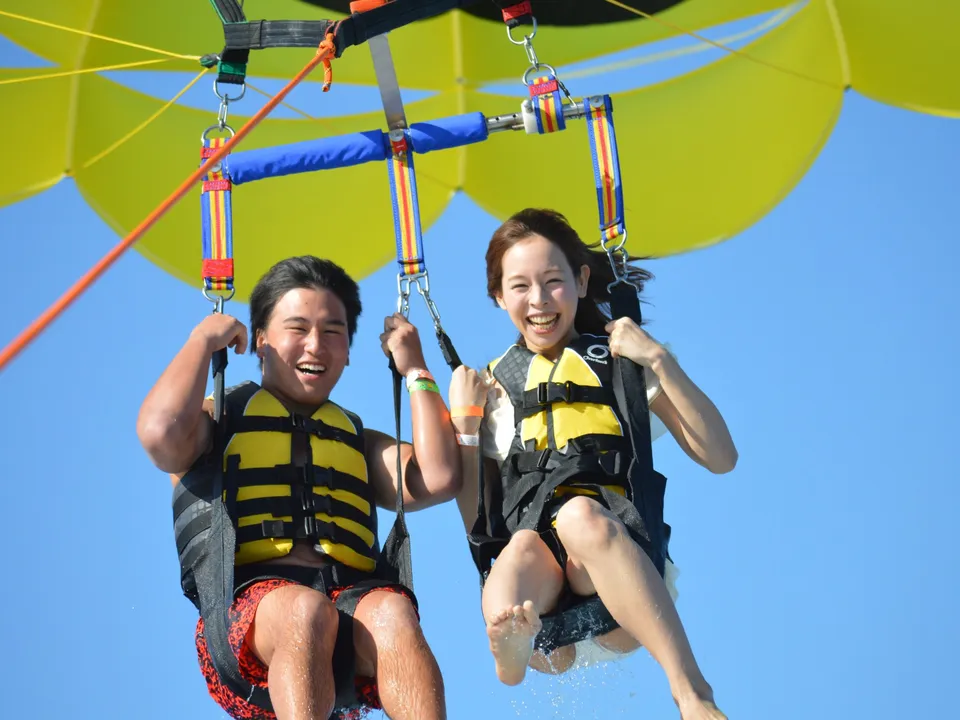
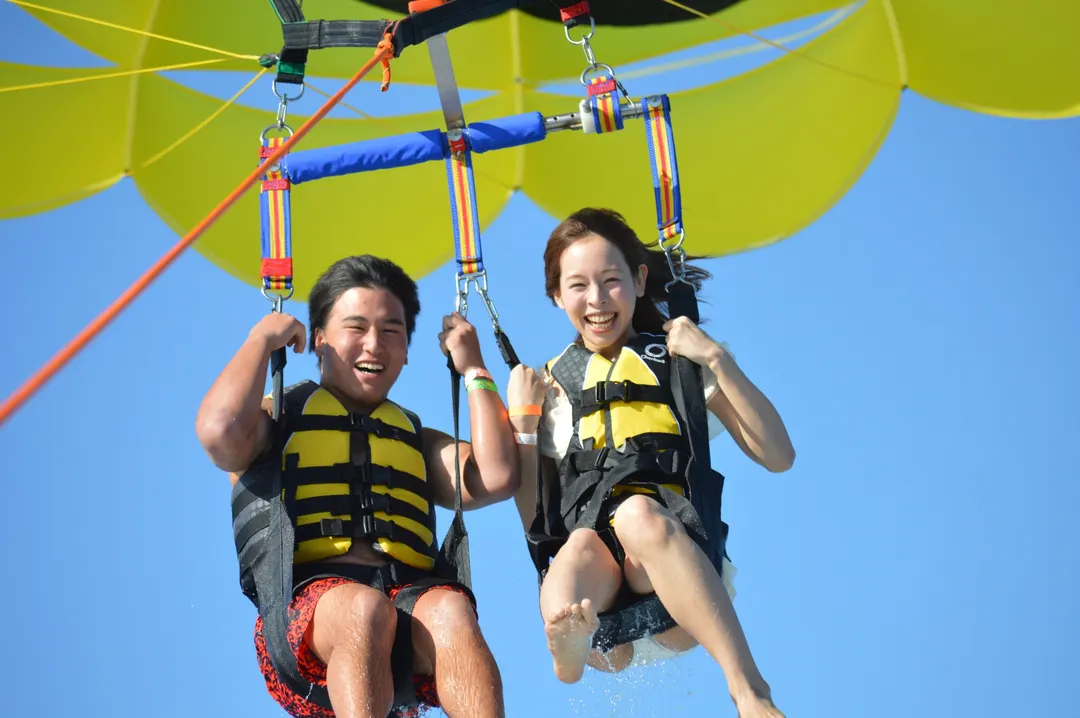
Combo desktop: crop para/jet photos less
Photo column is wider (1.2fr) and the spec table folds into two columns so
the card is shorter; the photo box goes from ~1:1 to 1.1-1.2:1 and uses the
uncropped originals.

Claude-Session: https://claude.ai/code/session_013pcx89j3zvmSQ7DeVKpmNj

diff --git a/docs/design-canvas/v3/DetailComboKo.dc.html b/docs/design-canvas/v3/DetailComboKo.dc.html
@@ -144,22 +144,26 @@ h1,h2,h3,h4{font-family:'SUIT',system-ui,sans-serif;color:var(--ink);letter-spac
 
 /* 콤보 — 패러세일링 · 제트스키. 사진 반, 글 반. 두 판은 사진 쪽을 바꿔 리듬을 준다. */
 .acts{margin-top:44px;display:grid;gap:28px}
-.act{display:grid;grid-template-columns:1fr 1fr;background:#fff;border:1px solid var(--line);
+/* 사진 칸을 넓히고 사양 표를 두 단으로 접어 카드 높이를 줄였다. 둘 다 1:1 에
+   가깝던 사진 칸을 4:3 가까이 되돌려, 사진 좌우가 덜 잘린다. */
+.act{display:grid;grid-template-columns:1.2fr 1fr;background:#fff;border:1px solid var(--line);
   border-radius:22px;overflow:hidden}
+.act.rev{grid-template-columns:1fr 1.2fr}
 .act-ph{position:relative;min-height:420px}
 .act-ph img{position:absolute;inset:0;width:100%;height:100%;object-fit:cover}
 .act.rev .act-ph{order:2}
-.act-b{padding:44px 48px 40px}
+.act-b{padding:40px 44px 36px}
 .act-tag{display:inline-flex;align-items:center;height:30px;padding:0 13px;border-radius:999px;
   background:var(--soft);color:var(--deep);font-size:14px;font-weight:800}
 .act-b h3{margin-top:16px;font-size:34px;line-height:1.25}
 .act-k{margin-top:8px;font-size:17px;font-weight:700;color:var(--sea-d)}
 .act-t p{margin-top:14px;font-size:16px;line-height:1.8;color:var(--text)}
-.act-spec{margin-top:26px;border-top:1px solid var(--line)}
-.act-spec div{display:grid;grid-template-columns:76px 1fr;gap:14px;padding:12px 0;
+.act-spec{margin-top:24px;display:grid;grid-template-columns:1fr 1fr;column-gap:26px}
+.act-spec div{display:grid;grid-template-columns:52px 1fr;gap:10px;padding:11px 0;
   border-bottom:1px solid var(--line)}
+.act-spec div:nth-child(-n+2){border-top:1px solid var(--line)}
 .act-spec dt{font-size:14.5px;font-weight:700;color:var(--muted)}
-.act-spec dd{font-size:15.5px;font-weight:600;line-height:1.6;color:var(--ink)}
+.act-spec dd{font-size:15px;font-weight:600;line-height:1.6;color:var(--ink)}
 .acts + .tnote{margin-top:22px}
 
 /* 콤보 — 패키지 A · B. */

diff --git a/docs/design-canvas/v3/DetailKo.dc.html b/docs/design-canvas/v3/DetailKo.dc.html
@@ -144,22 +144,26 @@ h1,h2,h3,h4{font-family:'SUIT',system-ui,sans-serif;color:var(--ink);letter-spac
 
 /* 콤보 — 패러세일링 · 제트스키. 사진 반, 글 반. 두 판은 사진 쪽을 바꿔 리듬을 준다. */
 .acts{margin-top:44px;display:grid;gap:28px}
-.act{display:grid;grid-template-columns:1fr 1fr;background:#fff;border:1px solid var(--line);
+/* 사진 칸을 넓히고 사양 표를 두 단으로 접어 카드 높이를 줄였다. 둘 다 1:1 에
+   가깝던 사진 칸을 4:3 가까이 되돌려, 사진 좌우가 덜 잘린다. */
+.act{display:grid;grid-template-columns:1.2fr 1fr;background:#fff;border:1px solid var(--line);
   border-radius:22px;overflow:hidden}
+.act.rev{grid-template-columns:1fr 1.2fr}
 .act-ph{position:relative;min-height:420px}
 .act-ph img{position:absolute;inset:0;width:100%;height:100%;object-fit:cover}
 .act.rev .act-ph{order:2}
-.act-b{padding:44px 48px 40px}
+.act-b{padding:40px 44px 36px}
 .act-tag{display:inline-flex;align-items:center;height:30px;padding:0 13px;border-radius:999px;
   background:var(--soft);color:var(--deep);font-size:14px;font-weight:800}
 .act-b h3{margin-top:16px;font-size:34px;line-height:1.25}
 .act-k{margin-top:8px;font-size:17px;font-weight:700;color:var(--sea-d)}
 .act-t p{margin-top:14px;font-size:16px;line-height:1.8;color:var(--text)}
-.act-spec{margin-top:26px;border-top:1px solid var(--line)}
-.act-spec div{display:grid;grid-template-columns:76px 1fr;gap:14px;padding:12px 0;
+.act-spec{margin-top:24px;display:grid;grid-template-columns:1fr 1fr;column-gap:26px}
+.act-spec div{display:grid;grid-template-columns:52px 1fr;gap:10px;padding:11px 0;
   border-bottom:1px solid var(--line)}
+.act-spec div:nth-child(-n+2){border-top:1px solid var(--line)}
 .act-spec dt{font-size:14.5px;font-weight:700;color:var(--muted)}
-.act-spec dd{font-size:15.5px;font-weight:600;line-height:1.6;color:var(--ink)}
+.act-spec dd{font-size:15px;font-weight:600;line-height:1.6;color:var(--ink)}
 .acts + .tnote{margin-top:22px}
 
 /* 콤보 — 패키지 A · B. */

diff --git a/docs/design-canvas/v3/DetailSunsetKo.dc.html b/docs/design-canvas/v3/DetailSunsetKo.dc.html
@@ -144,22 +144,26 @@ h1,h2,h3,h4{font-family:'SUIT',system-ui,sans-serif;color:var(--ink);letter-spac
 
 /* 콤보 — 패러세일링 · 제트스키. 사진 반, 글 반. 두 판은 사진 쪽을 바꿔 리듬을 준다. */
 .acts{margin-top:44px;display:grid;gap:28px}
-.act{display:grid;grid-template-columns:1fr 1fr;background:#fff;border:1px solid var(--line);
+/* 사진 칸을 넓히고 사양 표를 두 단으로 접어 카드 높이를 줄였다. 둘 다 1:1 에
+   가깝던 사진 칸을 4:3 가까이 되돌려, 사진 좌우가 덜 잘린다. */
+.act{display:grid;grid-template-columns:1.2fr 1fr;background:#fff;border:1px solid var(--line);
   border-radius:22px;overflow:hidden}
+.act.rev{grid-template-columns:1fr 1.2fr}
 .act-ph{position:relative;min-height:420px}
 .act-ph img{position:absolute;inset:0;width:100%;height:100%;object-fit:cover}
 .act.rev .act-ph{order:2}
-.act-b{padding:44px 48px 40px}
+.act-b{padding:40px 44px 36px}
 .act-tag{display:inline-flex;align-items:center;height:30px;padding:0 13px;border-radius:999px;
   background:var(--soft);color:var(--deep);font-size:14px;font-weight:800}
 .act-b h3{margin-top:16px;font-size:34px;line-height:1.25}
 .act-k{margin-top:8px;font-size:17px;font-weight:700;color:var(--sea-d)}
 .act-t p{margin-top:14px;font-size:16px;line-height:1.8;color:var(--text)}
-.act-spec{margin-top:26px;border-top:1px solid var(--line)}
-.act-spec div{display:grid;grid-template-columns:76px 1fr;gap:14px;padding:12px 0;
+.act-spec{margin-top:24px;display:grid;grid-template-columns:1fr 1fr;column-gap:26px}
+.act-spec div{display:grid;grid-template-columns:52px 1fr;gap:10px;padding:11px 0;
   border-bottom:1px solid var(--line)}
+.act-spec div:nth-child(-n+2){border-top:1px solid var(--line)}
 .act-spec dt{font-size:14.5px;font-weight:700;color:var(--muted)}
-.act-spec dd{font-size:15.5px;font-weight:600;line-height:1.6;color:var(--ink)}
+.act-spec dd{font-size:15px;font-weight:600;line-height:1.6;color:var(--ink)}
 .acts + .tnote{margin-top:22px}
 
 /* 콤보 — 패키지 A · B. */

diff --git a/docs/design-canvas/v3/build_detail.py b/docs/design-canvas/v3/build_detail.py
@@ -254,22 +254,26 @@ CSS_D = BASE + """
 
 /* 콤보 — 패러세일링 · 제트스키. 사진 반, 글 반. 두 판은 사진 쪽을 바꿔 리듬을 준다. */
 .acts{margin-top:44px;display:grid;gap:28px}
-.act{display:grid;grid-template-columns:1fr 1fr;background:#fff;border:1px solid var(--line);
+/* 사진 칸을 넓히고 사양 표를 두 단으로 접어 카드 높이를 줄였다. 둘 다 1:1 에
+   가깝던 사진 칸을 4:3 가까이 되돌려, 사진 좌우가 덜 잘린다. */
+.act{display:grid;grid-template-columns:1.2fr 1fr;background:#fff;border:1px solid var(--line);
   border-radius:22px;overflow:hidden}
+.act.rev{grid-template-columns:1fr 1.2fr}
 .act-ph{position:relative;min-height:420px}
 .act-ph img{position:absolute;inset:0;width:100%;height:100%;object-fit:cover}
 .act.rev .act-ph{order:2}
-.act-b{padding:44px 48px 40px}
+.act-b{padding:40px 44px 36px}
 .act-tag{display:inline-flex;align-items:center;height:30px;padding:0 13px;border-radius:999px;
   background:var(--soft);color:var(--deep);font-size:14px;font-weight:800}
 .act-b h3{margin-top:16px;font-size:34px;line-height:1.25}
 .act-k{margin-top:8px;font-size:17px;font-weight:700;color:var(--sea-d)}
 .act-t p{margin-top:14px;font-size:16px;line-height:1.8;color:var(--text)}
-.act-spec{margin-top:26px;border-top:1px solid var(--line)}
-.act-spec div{display:grid;grid-template-columns:76px 1fr;gap:14px;padding:12px 0;
+.act-spec{margin-top:24px;display:grid;grid-template-columns:1fr 1fr;column-gap:26px}
+.act-spec div{display:grid;grid-template-columns:52px 1fr;gap:10px;padding:11px 0;
   border-bottom:1px solid var(--line)}
+.act-spec div:nth-child(-n+2){border-top:1px solid var(--line)}
 .act-spec dt{font-size:14.5px;font-weight:700;color:var(--muted)}
-.act-spec dd{font-size:15.5px;font-weight:600;line-height:1.6;color:var(--ink)}
+.act-spec dd{font-size:15px;font-weight:600;line-height:1.6;color:var(--ink)}
 .acts + .tnote{margin-top:22px}
 
 /* 콤보 — 패키지 A · B. */
